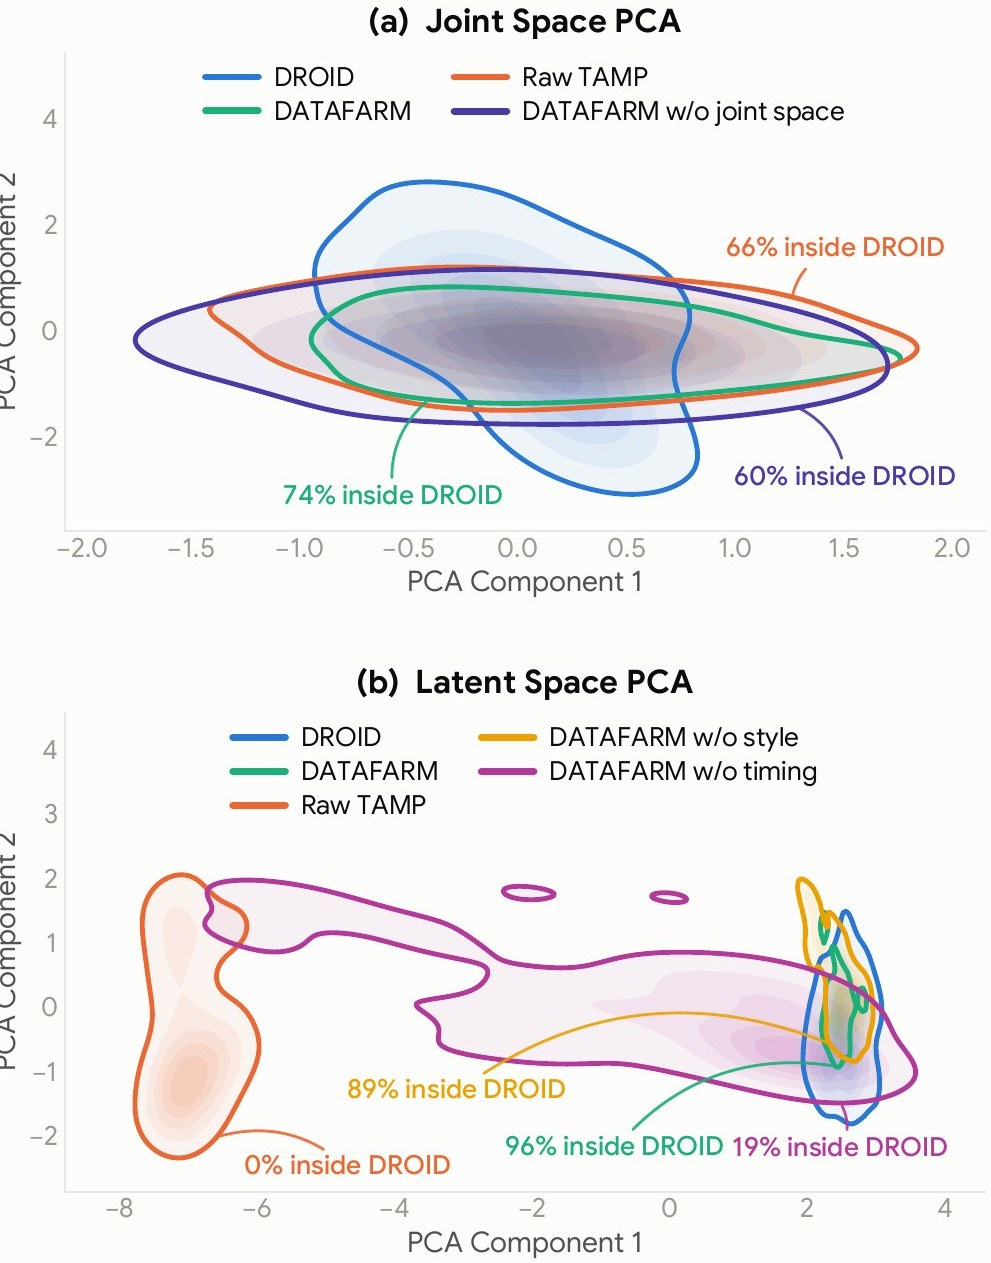
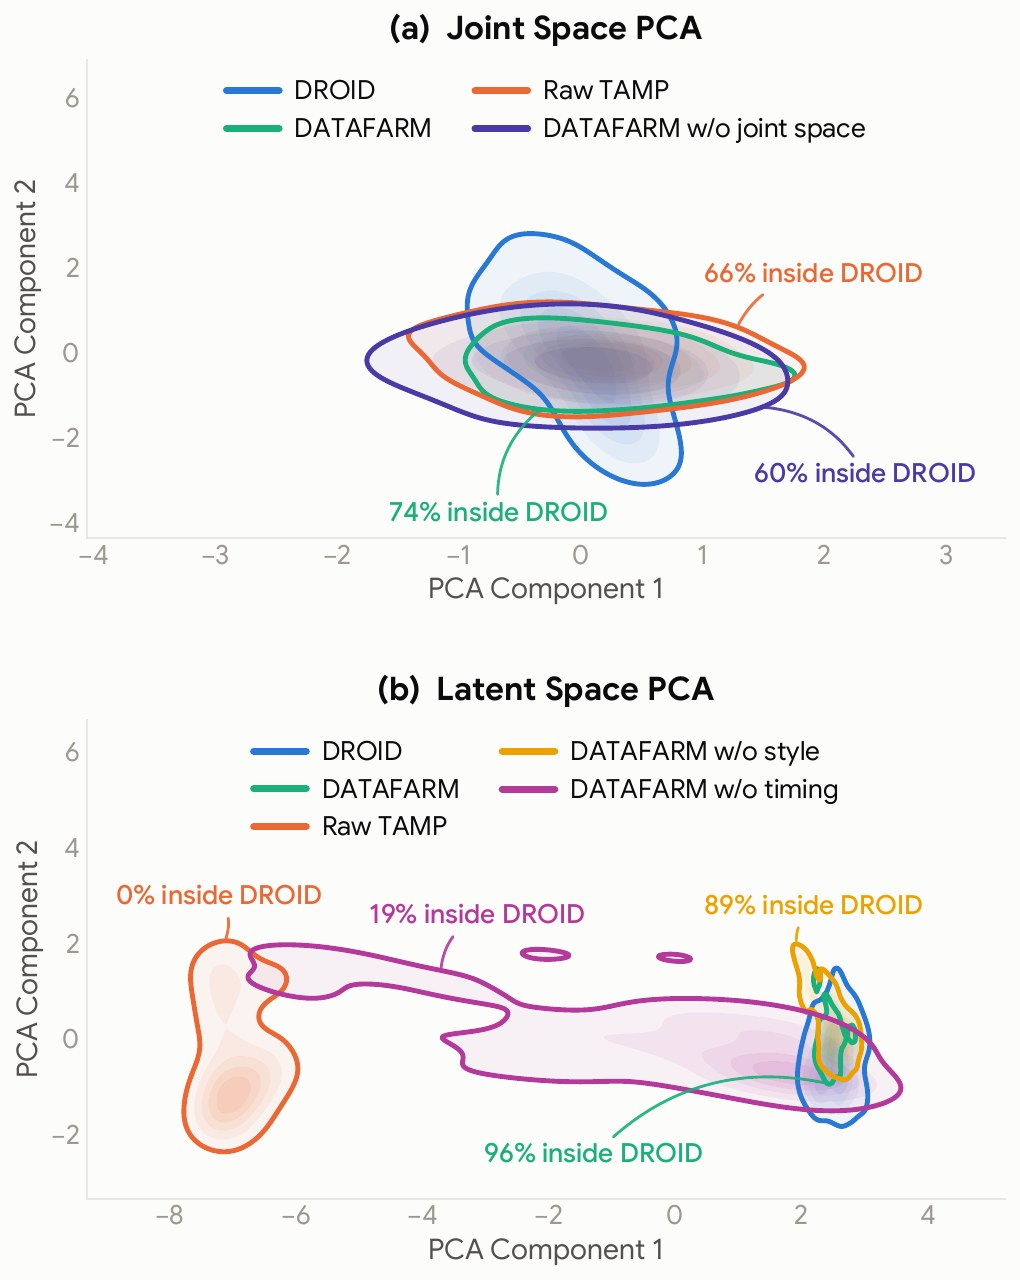
Use the paper's Fig. 4 for the alignment figure
The previous image clipped the "PCA Component 2" axis labels at its
left edge. Render Fig. 4 from the paper PDF and crop it to its panel.

diff --git a/index.html b/index.html
@@ -293,7 +293,7 @@
 
     <div class="two-col">
       <figure class="fig narrow">
-        <img src="static/images/alignment.jpg" width="991" height="1263" loading="lazy" alt="PCA density contours. Joint space: 74% of DATAFARM samples inside the DROID contour vs. 66% raw TAMP and 60% without joint-space alignment. Latent space: 96% DATAFARM vs. 0% raw TAMP, 89% without style, 19% without timing." />
+        <img src="static/images/alignment.jpg" width="1020" height="1280" loading="lazy" alt="PCA density contours. Joint space: 74% of DATAFARM samples inside the DROID contour vs. 66% raw TAMP and 60% without joint-space alignment. Latent space: 96% DATAFARM vs. 0% raw TAMP, 89% without style, 19% without timing." />
       </figure>
       <div class="prose">
         <p>DATAFARM increases overlap with DROID in both the joint-space and trajectory-latent projections.</p>
